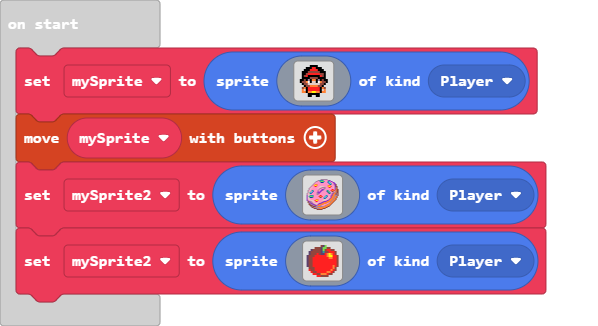
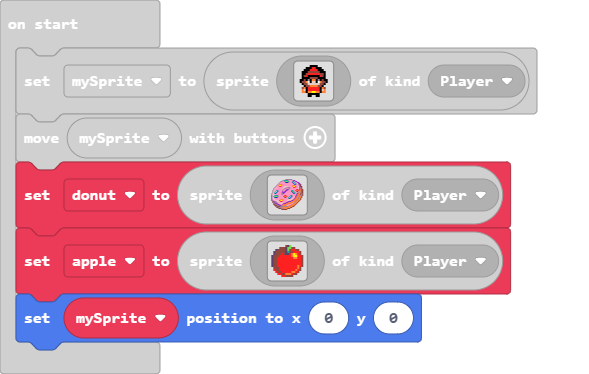
Update main.blocks, main.ts

diff --git a/main.ts b/main.ts
@@ -17,7 +17,7 @@ let mySprite = sprites.create(img`
     . . . . . f f . . f f . . . . . 
     `, SpriteKind.Player)
 controller.moveSprite(mySprite)
-let mySprite2 = sprites.create(img`
+let donut = sprites.create(img`
     ..............bbbbbbb...........
     ...........bb66663333baa........
     .........bb3367776333663aa......
@@ -51,7 +51,7 @@ let mySprite2 = sprites.create(img`
     ..........eeeeee................
     ................................
     `, SpriteKind.Player)
-mySprite2 = sprites.create(img`
+let apple = sprites.create(img`
     . . . . . . . e c 7 . . . . . . 
     . . . . e e e c 7 7 e e . . . . 
     . . c e e e e c 7 e 2 2 e e . . 
@@ -69,3 +69,4 @@ mySprite2 = sprites.create(img`
     . . . 2 2 e e 4 4 4 2 e e . . . 
     . . . . . 2 2 e e e e . . . . . 
     `, SpriteKind.Player)
+mySprite.setPosition(0, 0)
